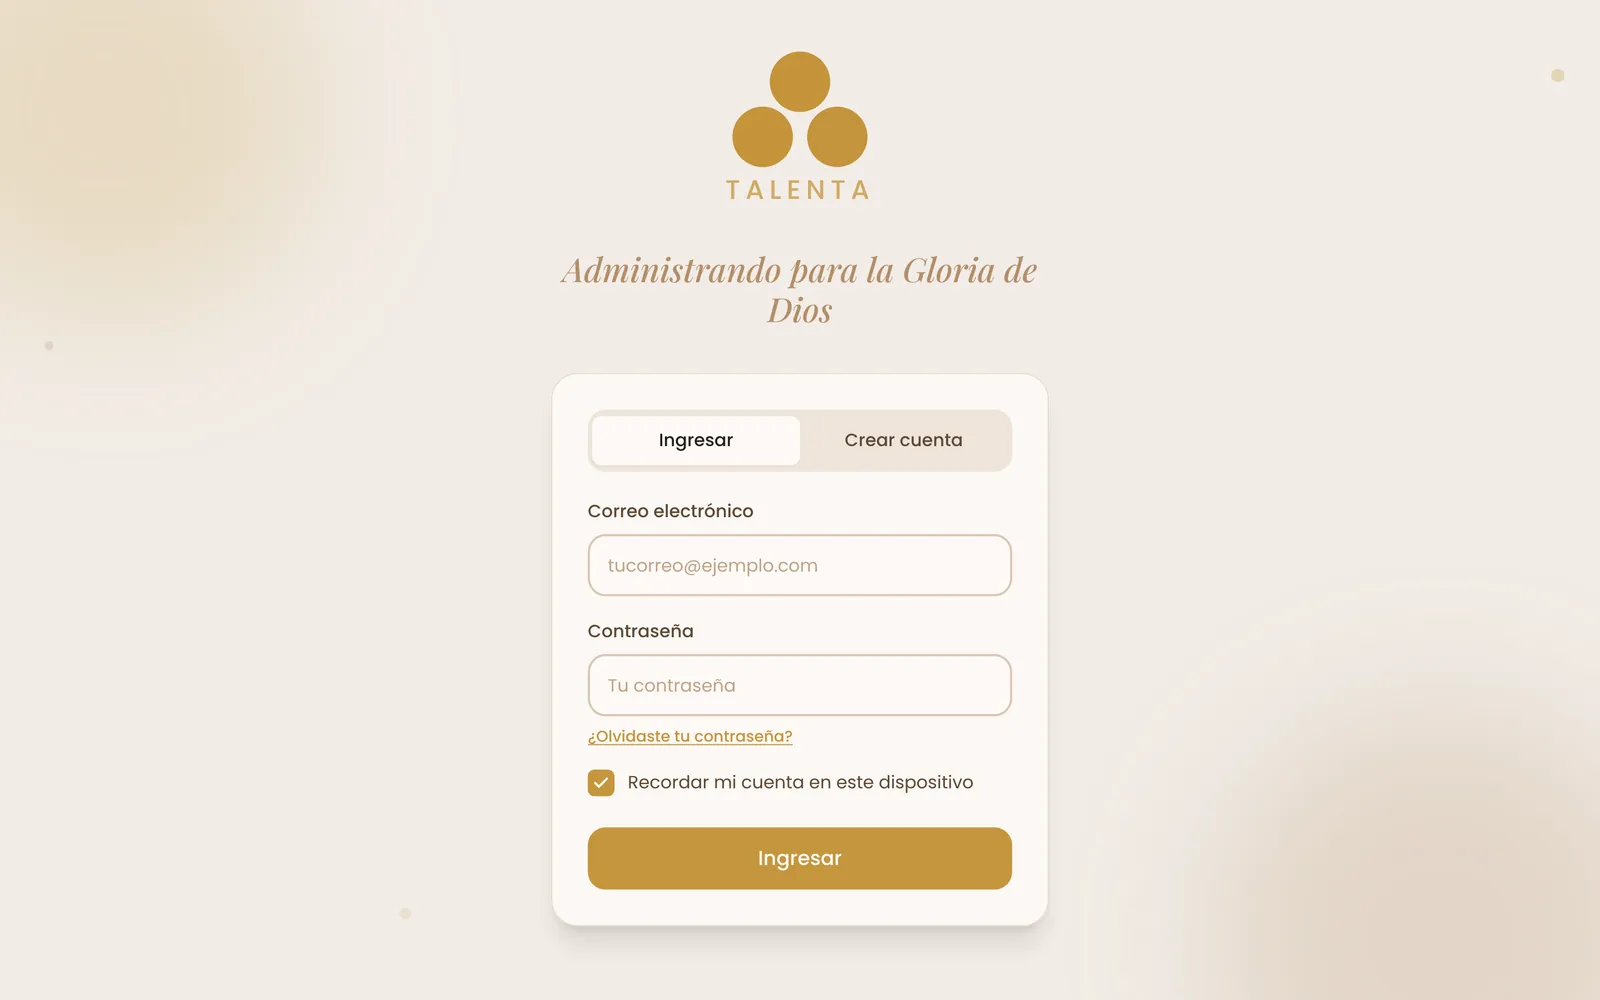
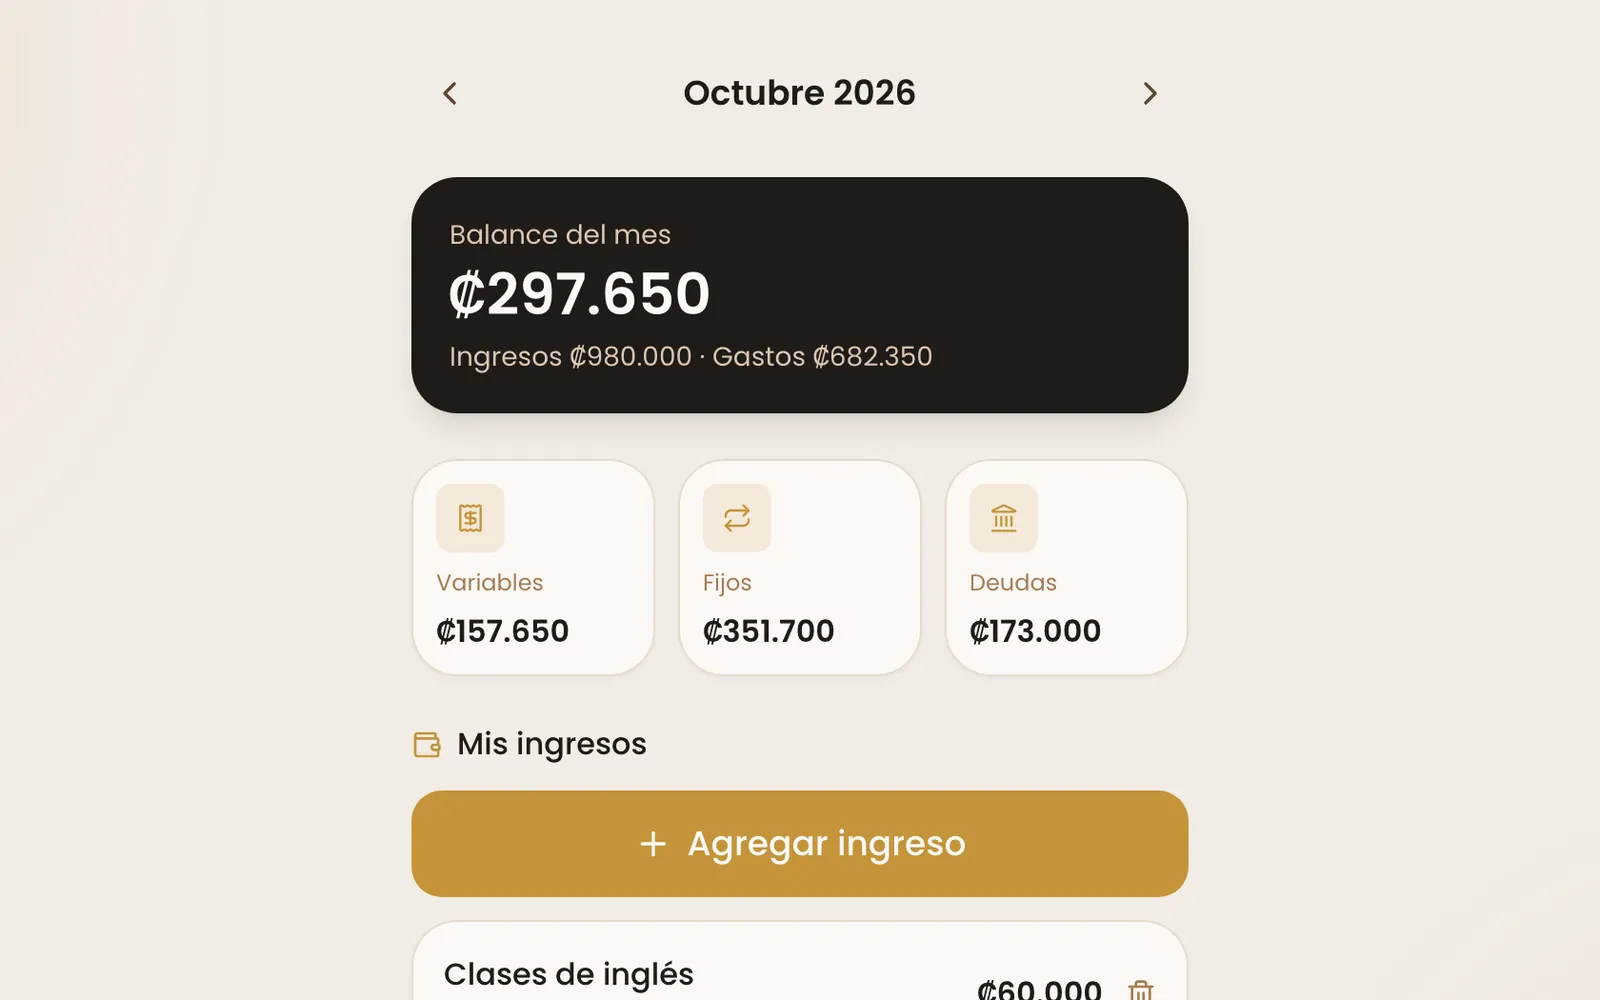
Talenta: capturas reales de la app y descripción de sus funciones
Claude-Session: https://claude.ai/code/session_018UCKGMtG2XUVk9aNjHVJGe

diff --git a/src/content/projects.ts b/src/content/projects.ts
@@ -68,15 +68,20 @@ export const projects: Project[] = [
     year: 2026,
     type: 'negocio',
     services: ['Apps', 'Web'],
-    summary: 'Plataforma de administración con cuentas de usuario, instalable en cualquier dispositivo.',
+    summary: 'Finanzas personales con propósito: balance del mes, gastos con metas, tarjetas, deudas y la Biblia en una sola app.',
     description: [
-      'Talenta es una plataforma de administración con un propósito claro: "Administrando para la Gloria de Dios".',
+      'Talenta es una app para administrar el dinero con un propósito claro: "Administrando para la Gloria de Dios".',
+      'Muestra el balance del mes con ingresos y gastos, organiza los gastos variables y fijos por categoría con una meta recomendada, lleva las tarjetas de crédito y débito, y registra créditos y deudas con sus pagos y un PDF descargable. También trae la Biblia para leer, buscar y guardar versículos.',
       'Cada persona tiene su cuenta y entra desde el navegador o la instala como app en su teléfono.',
     ],
-    deliverables: ['Aplicación web', 'Cuentas de usuario', 'App instalable (PWA)'],
+    deliverables: ['Balance mensual', 'Gastos por categoría con metas', 'Tarjetas, créditos y deudas', 'Biblia con versículos guardados', 'App instalable (PWA)'],
     colors: ['#C6963A', '#5C4420'],
     cover: 'projects/talenta/cover.webp',
-    gallery: ['projects/talenta/mobile.webp'],
+    gallery: [
+      'projects/talenta/metas.webp',
+      'projects/talenta/deudas.webp',
+      'projects/talenta/biblia.webp',
+    ],
     url: 'https://talentaapp.com',
   },
   {
